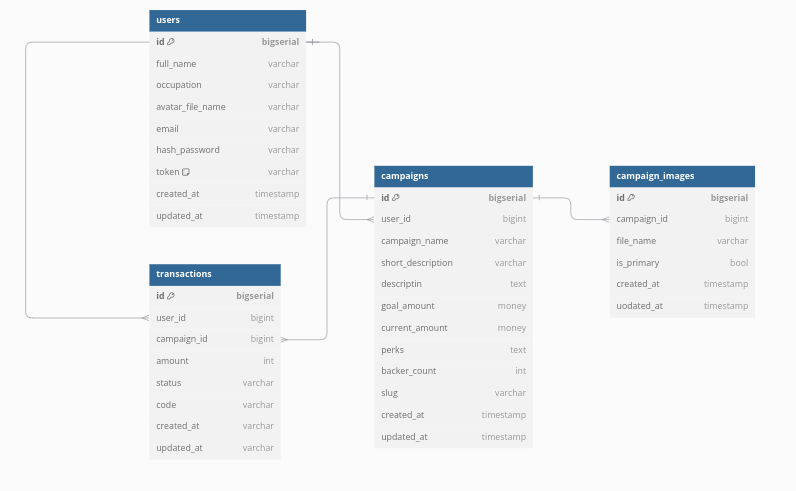
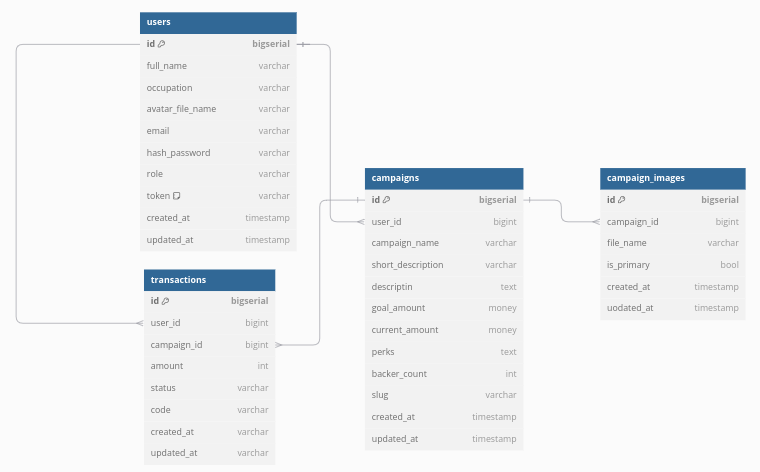
Add: user repositry 'add', user service 'register_user', and add role to users database

diff --git a/users/service.go b/users/service.go
@@ -1,0 +1,52 @@
+package users
+
+import (
+	"golang.org/x/crypto/bcrypt"
+	"time"
+)
+
+// Service defines the available methods for user-related operations.
+type Service interface {
+	// RegisterUser registers a new user based on the provided input.
+	// Returns the created user or an error if the process fails.
+	RegisterUser(input RegisterUserInput) (Users, error)
+}
+
+// service implements the Service interface.
+type service struct {
+	repo Repository // Repository to interact with the database.
+}
+
+// UserServices creates a new instance of the service.
+func UserServices(repo Repository) *service {
+	return &service{repo}
+}
+
+// RegisterUser handles user registration.
+// It hashes the password, creates a new user record, and saves it to the repository.
+func (s *service) RegisterUser(input RegisterUserInput) (Users, error) {
+	// Create a new Users struct and populate its fields from the input.
+	user := Users{
+		FullName:   input.FullName,
+		Occupation: input.Occupation,
+		Email:      input.Email,
+		Token:      "",     // TODO: Should be set later
+		Role:       "user", // Default role
+		CreatedAt:  time.Now(),
+		UpdatedAt:  time.Now(),
+	}
+
+	// Hash the user's password using bcrypt.
+	passwordHash, err := bcrypt.GenerateFromPassword([]byte(input.Password), bcrypt.DefaultCost)
+	if err != nil {
+		return Users{}, err
+	}
+	user.HashPassword = string(passwordHash)
+
+	// Save the new user in the repository.
+	newUser, err := s.repo.Save(user)
+	if err != nil {
+		return Users{}, err
+	}
+	return newUser, nil
+}

diff --git a/users/repository.go b/users/repository.go
@@ -1,0 +1,28 @@
+package users
+
+import "gorm.io/gorm"
+
+// Repository defines method for users
+type Repository interface {
+	Save(user Users) (Users, error)
+}
+
+// repository implements the Repository interface
+type repository struct {
+	db *gorm.DB // Gorm database connection
+}
+
+// UserRepository creates a new repository instance
+func UserRepository(db *gorm.DB) *repository {
+	return &repository{db}
+}
+
+// Save saves a user to database.
+// Return the saved user or error
+func (r *repository) Save(user Users) (Users, error) {
+	err := r.db.Create(&user).Error
+	if err != nil {
+		return Users{}, err
+	}
+	return user, nil
+}

diff --git a/main.go b/main.go
@@ -1,0 +1,24 @@
+package main
+
+import (
+	"github.com/gin-gonic/gin"
+	"github.com/muhamadrizkiariffadillah/CrowdFunding-Golang-NuxtJS/users"
+	"gorm.io/driver/postgres"
+	"gorm.io/gorm"
+	"log"
+)
+
+func main() {
+	// Connection GORM to database
+	dsn := "host=127.0.0.1 user=postgres password=testing_password dbname=crowdfunding port=5432 sslmode=disable TimeZone=Asia/Shanghai"
+	db, err := gorm.Open(postgres.Open(dsn), &gorm.Config{})
+	if err != nil {
+		log.Fatal(err.Error())
+	}
+	c := gin.Default()
+
+	//Users
+	userRepository := users.UserRepository(db)
+
+	c.Run("127.0.0.1:8080")
+}

diff --git a/users/entity.go b/users/entity.go
@@ -1,0 +1,17 @@
+package users
+
+import "time"
+
+// Users entity for database
+type Users struct {
+	Id             uint
+	FullName       string
+	Occupation     string
+	AvatarFileName string
+	Email          string
+	HashPassword   string
+	Role           string
+	Token          string
+	CreatedAt      time.Time
+	UpdatedAt      time.Time
+}

diff --git a/users/input.go b/users/input.go
@@ -1,0 +1,9 @@
+package users
+
+// RegisterUserInput catches input
+type RegisterUserInput struct {
+	FullName   string `json:"full_name"`
+	Occupation string `json:"occupation"`
+	Email      string `json:"email"`
+	Password   string `json:"password"`
+}
